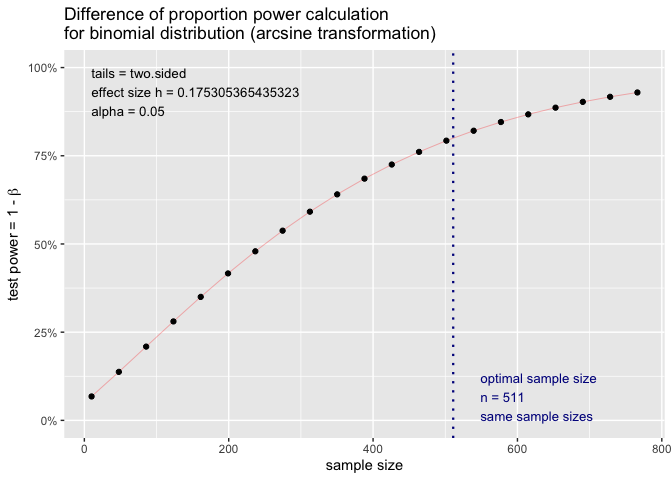
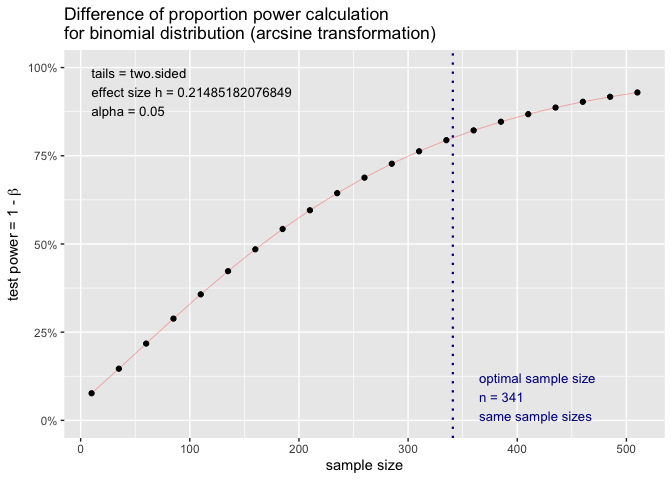
updated effect in int_non_uptake

diff --git a/TwiCs_samplesize.md b/TwiCs_samplesize.md
@@ -45,17 +45,19 @@ library(pwr) # sample size calculation: https://cran.r-project.org/web/packages/
 5. Sample Size calculation for TwiCs, including non-uptake in intervention according to Reeves et al: 
 * Suppose that in RETUNE, the mean effect across all participants in the control arm will be 8.5%
 * Suppose that in RETUNE, the mean effect in patients who accept any smoking cessation intervention is 20% 
-* Suppose that in RETUNE, the mean effect in patients who accept any smoking cessation intervention is 0? or 8.5%? or 5%?
+* Suppose that in RETUNE, the mean effect in patients who accept any smoking cessation intervention is 0? or 8.5%? or 6%?
 * 100% uptake: effect delta will be 11.5%
 * If lower uptake, then intervention effect diluted: effect_int_uptake * non_uptake + effect_int_non_uptake * (1-non_uptake) => effect delta lower
 * attrition???
+* what is our max. budget in intervention, i.e. to how many can we offer the package? 300?
+* what is the max. eligible cohort? 1500?
 
 ## fix parameters
 
 ```r
 p_cont <- 0.085 # Estimated cessation proportion in control group
 p_int_uptake <- 0.2 # Estimated cessation proportion in intervention group, among uptakers
-p_int_non_uptake <- 0.05 # or 0.085 or 0 ??? # Estimated cessation proportion in intervention group, among non-uptakers
+p_int_non_uptake <- 0.085 # or 0.085 or 0 ??? # Estimated cessation proportion in intervention group, among non-uptakers
 alpha <- 0.05 # Significance level
 power <- 0.80 # Desired power 
 attrition <- 0.0 # attrition/LTFU rate across both arms?
@@ -73,7 +75,7 @@ cat("effect size delta with non-uptake incorporated in intervention:", effect_de
 ```
 
 ```
-## effect size delta with non-uptake incorporated in intervention: 0.07
+## effect size delta with non-uptake incorporated in intervention: 0.0805
 ```
 
 ## Standard sample size for a binary outcome / individual randomized trial / with 70% non-uptake incorporated in intervention
@@ -91,7 +93,7 @@ cat("Required Sample Size_pwr:", round(sample_size_final, 0))
 ```
 
 ```
-## Required Sample Size_pwr: 663
+## Required Sample Size_pwr: 518
 ```
 
 ```r
@@ -126,7 +128,7 @@ cat("effect size delta with non-uptake incorporated in intervention:", effect_de
 ```
 
 ```
-## effect size delta with non-uptake incorporated in intervention: 0.055
+## effect size delta with non-uptake incorporated in intervention: 0.069
 ```
 
 ## Standard sample size for a binary outcome / individual randomized trial / with 60% non-uptake incorporated in intervention
@@ -145,7 +147,7 @@ cat("Required Sample Size_pwr:", round(sample_size_final, 0))
 ```
 
 ```
-## Required Sample Size_pwr: 1022
+## Required Sample Size_pwr: 680
 ```
 
 ```r
@@ -166,7 +168,7 @@ cat("effect size delta with non-uptake incorporated in intervention:", effect_de
 ```
 
 ```
-## effect size delta with non-uptake incorporated in intervention: 0.04
+## effect size delta with non-uptake incorporated in intervention: 0.0575
 ```
 
 ## Standard sample size for a binary outcome / individual randomized trial / with 50% non-uptake incorporated in intervention
@@ -184,7 +186,7 @@ cat("Required Sample Size_pwr:", round(sample_size_final, 0))
 ```
 
 ```
-## Required Sample Size_pwr: 1828
+## Required Sample Size_pwr: 943
 ```
 
 ```r
@@ -193,13 +195,13 @@ plot(sample_size_1arm)
 
 ![](TwiCs_samplesize_files/figure-html/unnamed-chunk-7-1.png)<!-- -->
 
-## Now, let's assume we can only offer treatment to max. 500 participants -> unequal allocation
+## Now, let's assume we can only offer treatment to max. 300 participants and max eligible cohort is 1500 -> unequal allocation
 ### with 50% non-uptake (all parameters see above)
 
 ### According to Reeves et al
 
 ```r
-n_int <- 500
+n_int <- 300
 n_cont <- (sample_size_1arm$n*n_int)/((2*n_int)-sample_size_1arm$n)
 n_tot <- n_cont + n_int
 
@@ -208,7 +210,7 @@ cat("Required Sample Size_unequal_cont:", round(n_cont, 0))
 ```
 
 ```
-## Required Sample Size_unequal_cont: 5320
+## Required Sample Size_unequal_cont: 1100
 ```
 
 ```r
@@ -217,7 +219,7 @@ cat("Required Sample Size_unequal_tot:", round(n_tot, 0))
 ```
 
 ```
-## Required Sample Size_unequal_tot: 5820
+## Required Sample Size_unequal_tot: 1400
 ```
 
 ## According to pwr
@@ -226,7 +228,7 @@ cat("Required Sample Size_unequal_tot:", round(n_tot, 0))
 sample_size_1arm <- pwr.2p2n.test(h = ES.h(p_int, p_cont), 
                            sig.level = alpha, 
                            power = power,
-                           n1 = 500,
+                           n1 = 300,
                            n2 = NULL, 
                            alternative = "two.sided") # for 1 arm
 n_int <- sample_size_1arm$n1
@@ -239,7 +241,7 @@ cat("Required Sample Size_unequal_cont_pwr:", round(n_cont, 0))
 ```
 
 ```
-## Required Sample Size_unequal_cont_pwr: 5320
+## Required Sample Size_unequal_cont_pwr: 1100
 ```
 
 ```r
@@ -248,7 +250,7 @@ cat("Required Sample Size_unequal_tot_pwr:", round(sample_size_final, 0))
 ```
 
 ```
-## Required Sample Size_unequal_tot_pwr: 5820
+## Required Sample Size_unequal_tot_pwr: 1400
 ```
 
 ```r
